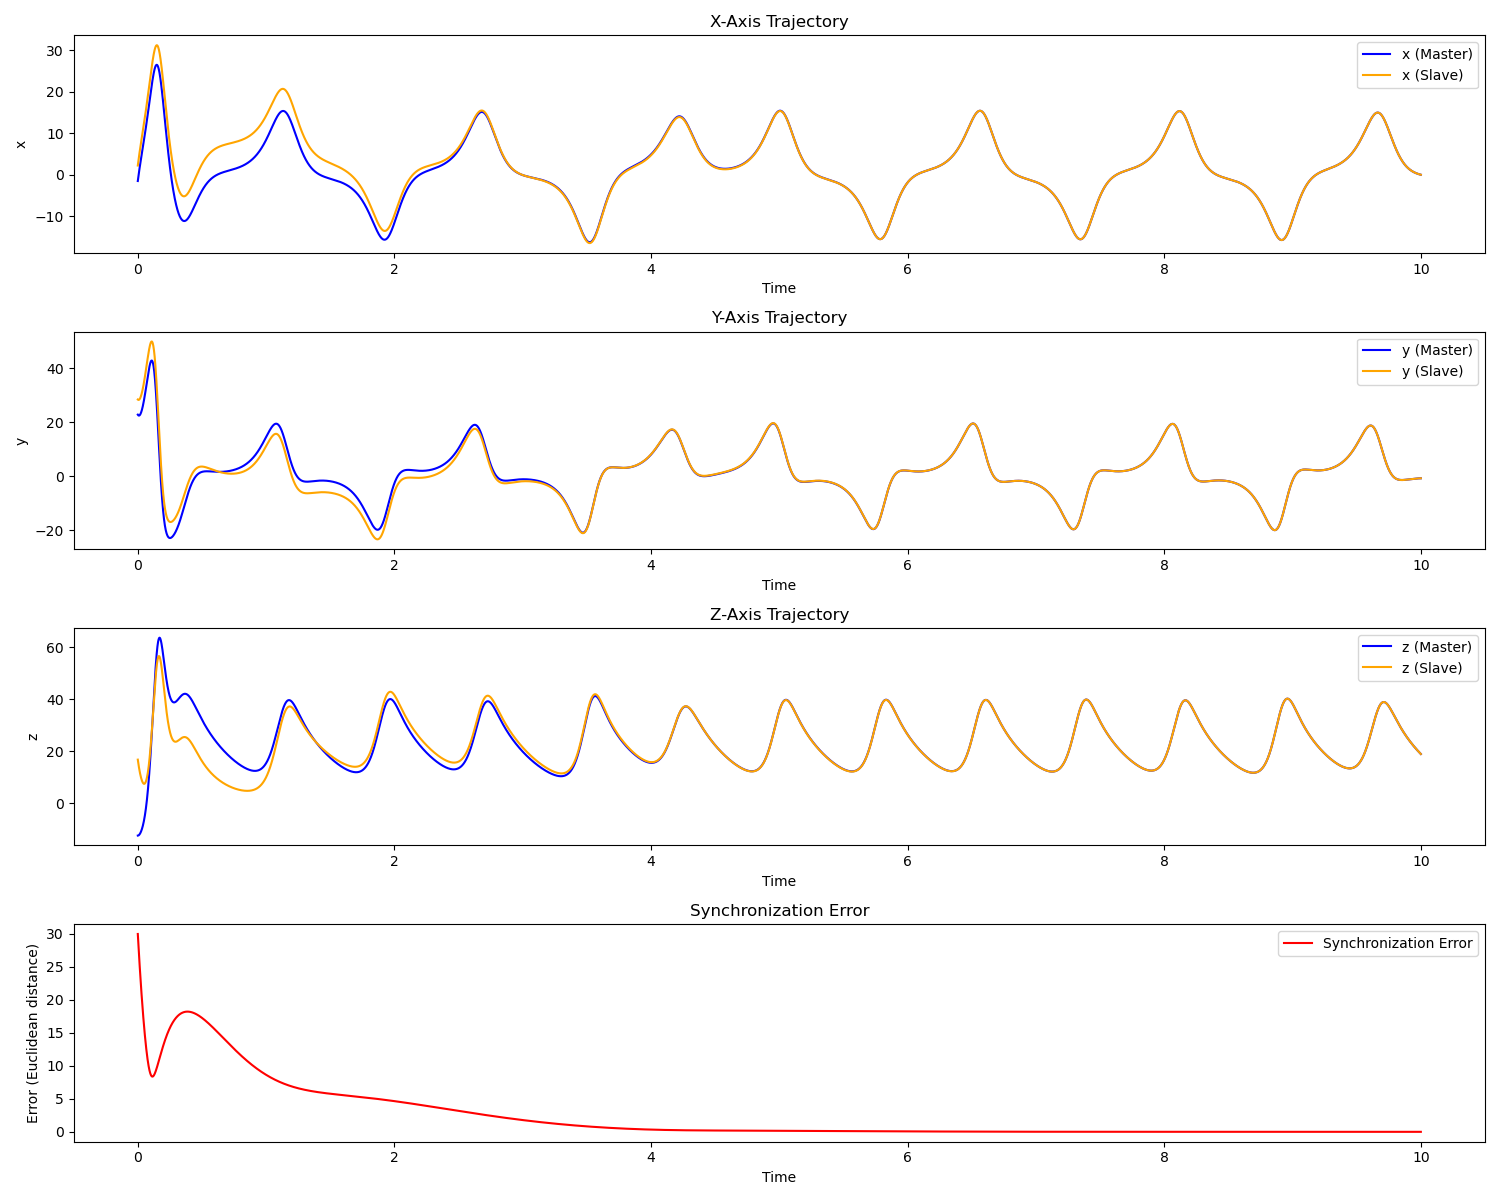
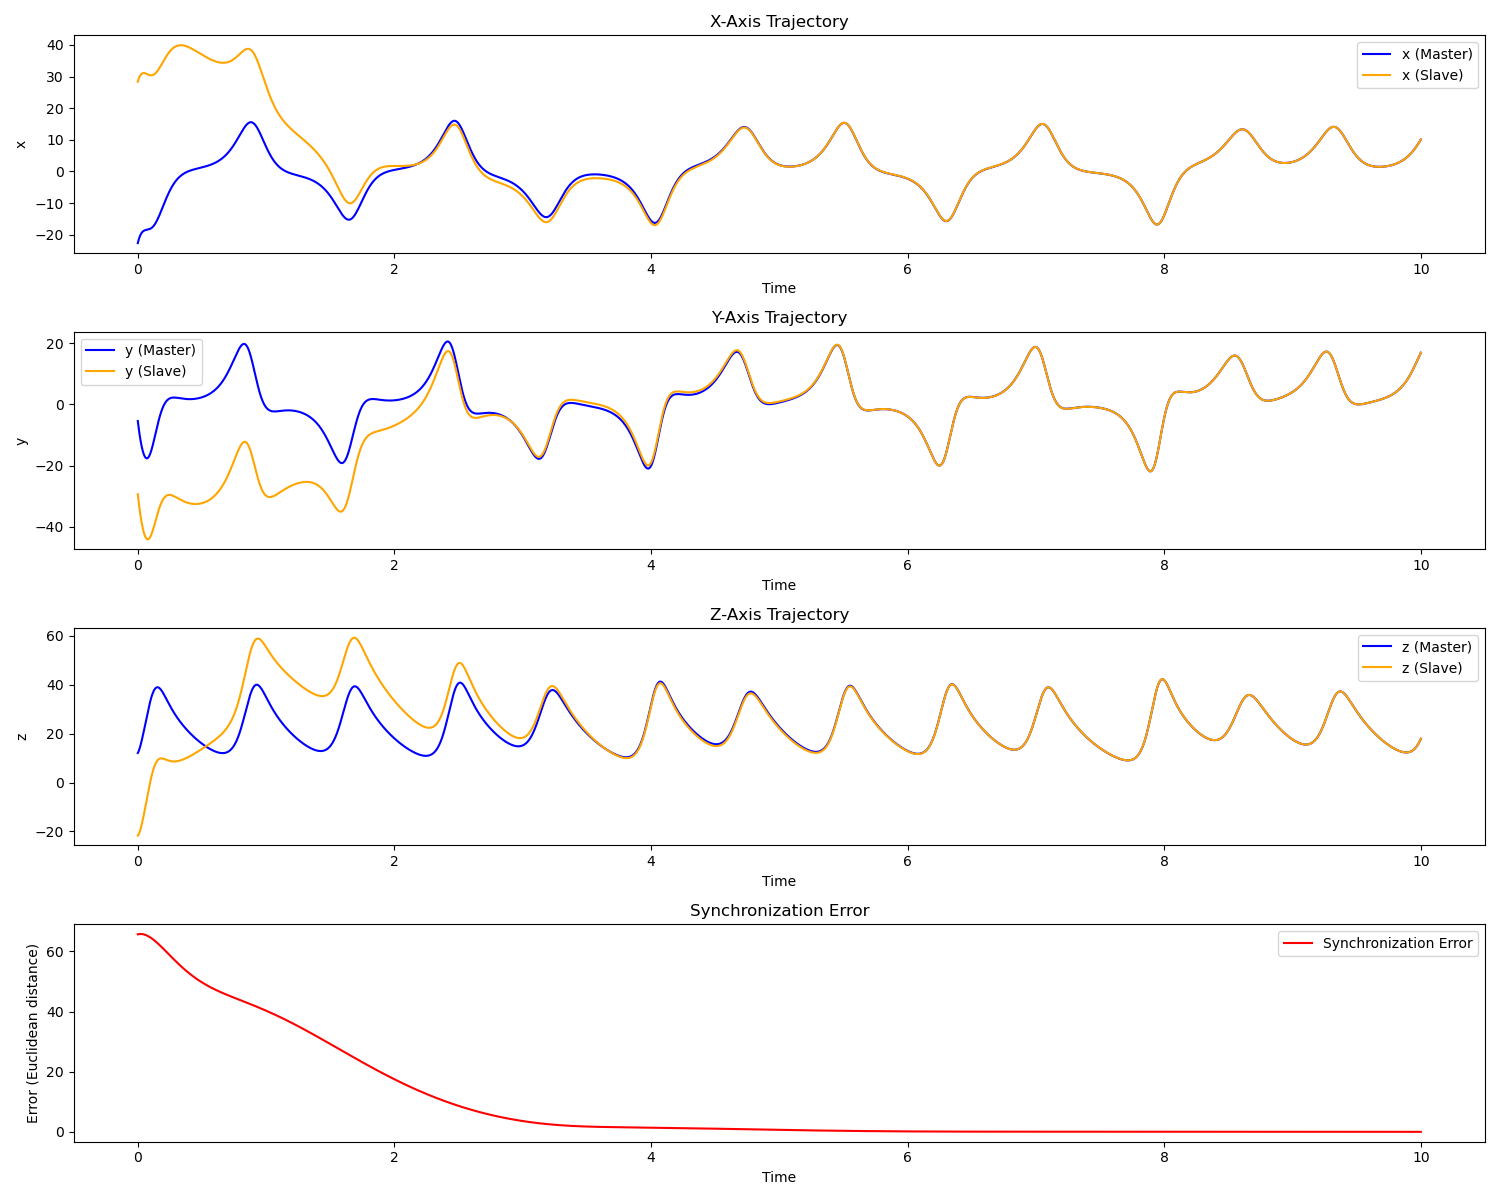
made it better

diff --git a/mm.py b/mm.py
@@ -265,7 +265,7 @@ def start_master_server(port):
                                 break
                                 
                             start_time = time.time()
-                            state_history = lorenz_system.run_steps(0, 50)
+                            state_history = lorenz_system.run_steps(0, 1000)
                             sync_time = time.time() - start_time
                             record_metrics("sync_times", sync_time)
                             

diff --git a/sm.py b/sm.py
@@ -302,8 +302,8 @@ def main():
         send_ack(sock)
         
         # Setup for message exchange
-        t_span = (0, master_copy.dt * 50)
-        t_eval = np.linspace(*t_span, 50)
+        t_span = (0, master_copy.dt * 1000)
+        t_eval = np.linspace(*t_span, 1000)
         
         message_count = 0
         with open("slave-copy.txt", "w") as f:
